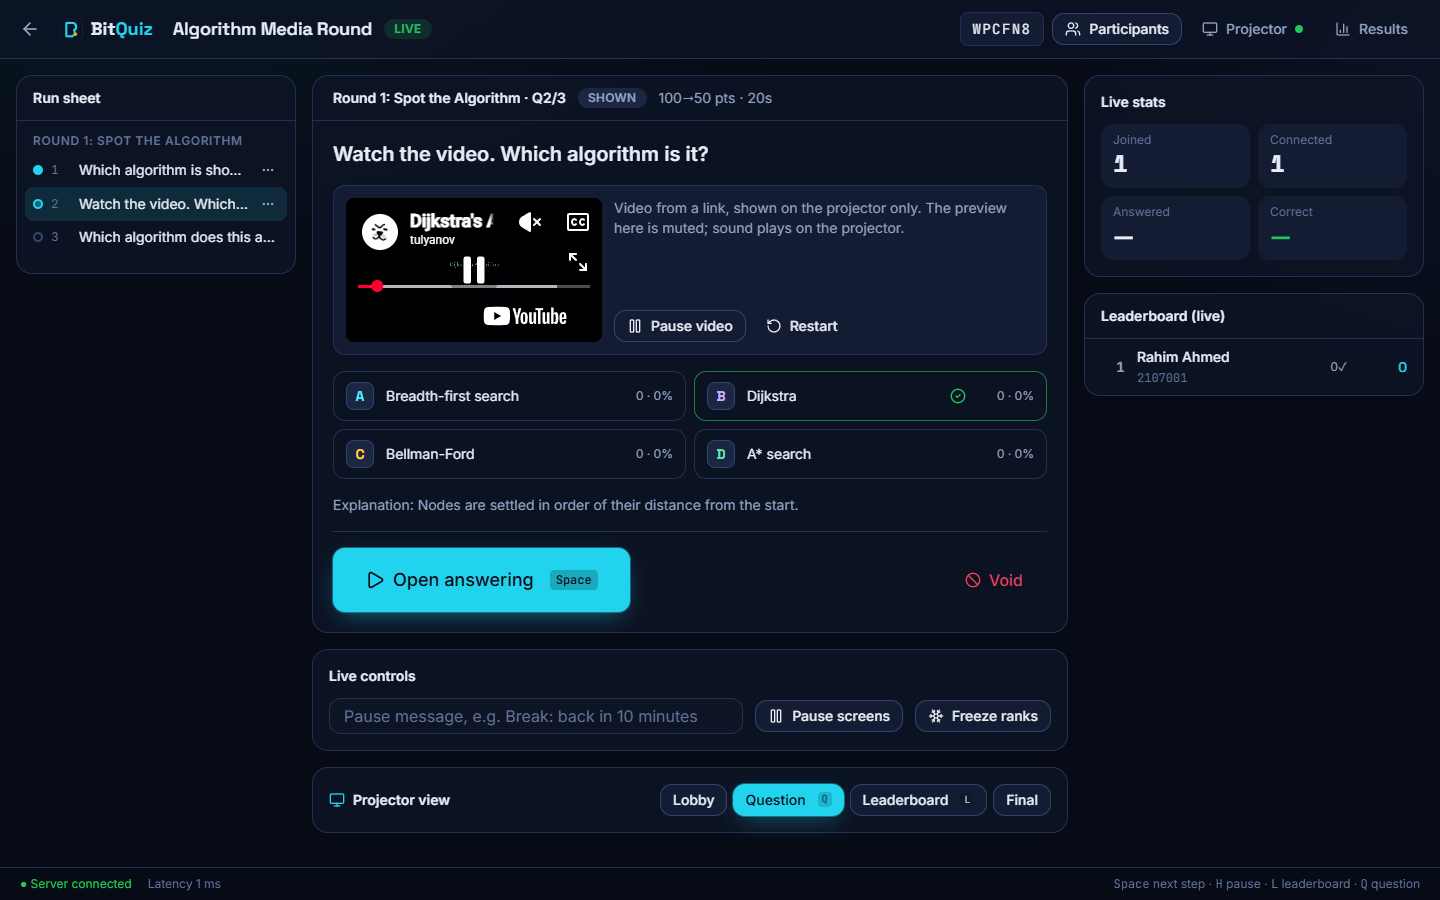
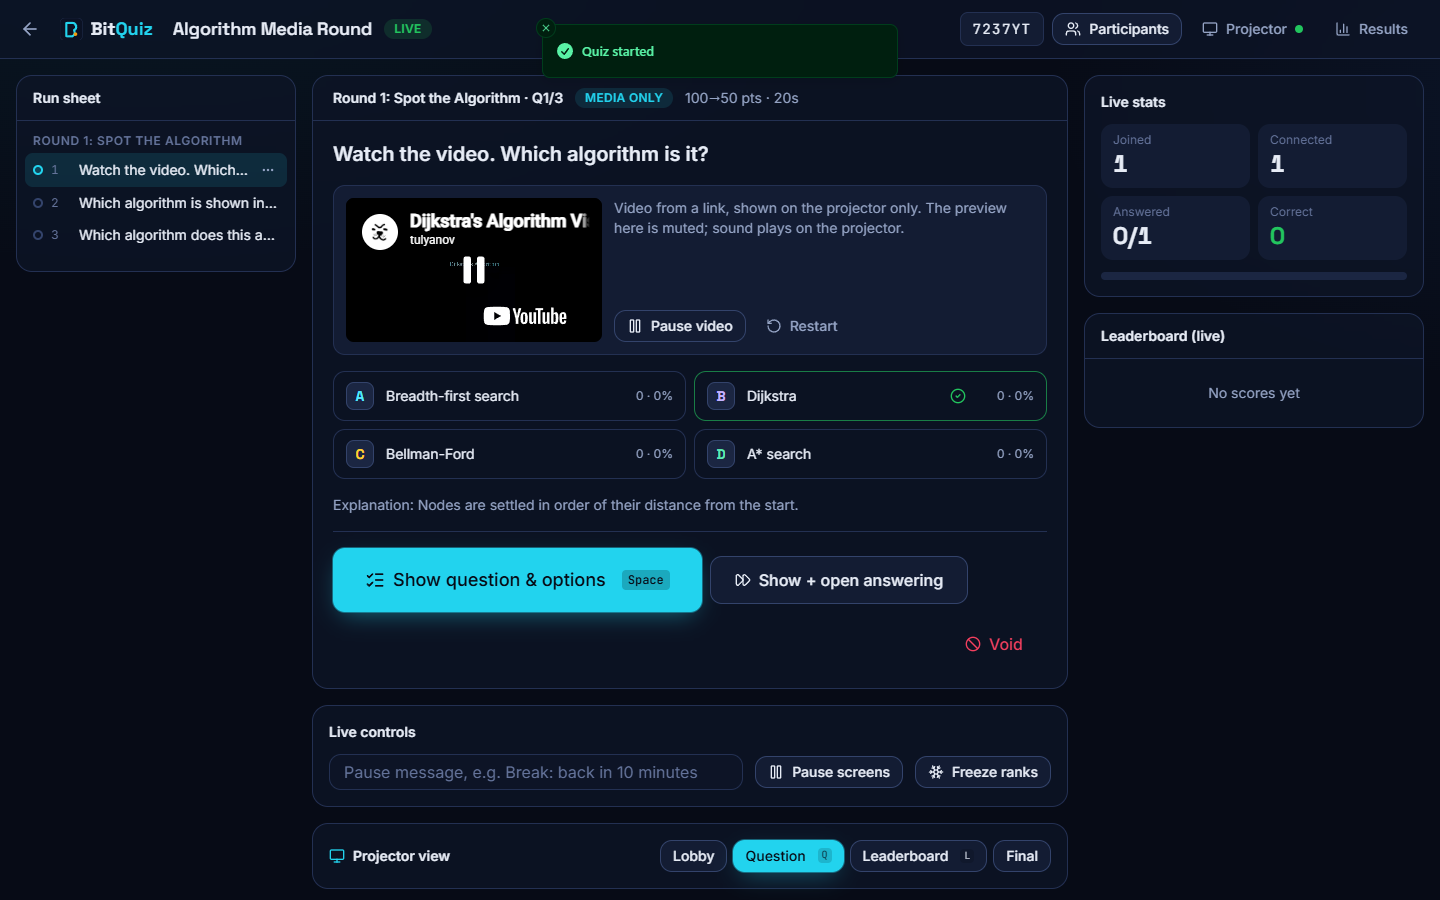
docs: two-step media flow, spoiler guidance and release 1.3.0

diff --git a/README.md b/README.md
@@ -52,11 +52,11 @@ Built for IEEE CS KUET quiz events of 100–300 participants in one hall. Tested
 
 **Images and videos** ([guide](docs/MEDIA.md))
 
-| Projector: video question                                     | Projector: image question                                |
-| ------------------------------------------------------------- | -------------------------------------------------------- |
-| ![Projector video](docs/screenshots/projector-video.png)      | ![Projector image](docs/screenshots/projector-media.png) |
-| **Console: video controls**                                   | **Editor: media with preview**                           |
-| ![Console video controls](docs/screenshots/console-video.png) | ![Editor media](docs/screenshots/editor-media.png)       |
+| Step 1: media only (phones say "Watch the screen")            | Step 2: question and options appear                           |
+| ------------------------------------------------------------- | ------------------------------------------------------------- |
+| ![Media stage](docs/screenshots/projector-media-stage.png)    | ![Question and options](docs/screenshots/projector-media.png) |
+| **Console: video controls**                                   | **Editor: media with preview**                                |
+| ![Console video controls](docs/screenshots/console-video.png) | ![Editor media](docs/screenshots/editor-media.png)            |
 
 <table>
   <tr>
@@ -93,7 +93,7 @@ Built for IEEE CS KUET quiz events of 100–300 participants in one hall. Tested
 **Organizers**
 
 - **Text and code questions** with 2–6 options (True/False included), syntax highlighting, explanations, and per-question time and points.
-- **Images and videos** from YouTube, Google Drive or any https link, or from files on the projector computer (works offline). Videos play on the projector only, start when the question is shown and are controlled from the console (play, pause, restart); the answer timer starts when you open answering. See [docs/MEDIA.md](docs/MEDIA.md).
+- **Images and videos** from YouTube, Google Drive or any https link, or from files on the projector computer (works offline). Media questions are shown in two steps: first the image or video alone (the video starts, phones say "Watch the screen", the question and options are not sent yet), then the question and options when the organizer shows them. Videos play on the projector only and are controlled from the console (play, pause, restart); the answer timer starts when you open answering. See [docs/MEDIA.md](docs/MEDIA.md).
 - **CSV import** with a row-by-row preview of problems (Excel/Google Sheets friendly), plus **results** and **all-answers** CSV exports.
 - **Projector optional.** Projector controls appear only when a projector screen is connected. Without one, the console shows the join QR code and link.
 - **Invite-only organizer accounts.** Owners invite organizers, who set their own password from a single-use link. The link can be shared directly (e.g. WhatsApp), so no email service is required. With email configured, invitations, verification and "forgot password" links are also emailed.

diff --git a/docs/MEDIA.md b/docs/MEDIA.md
@@ -43,11 +43,28 @@ Videos play inside the browser: **MP4 (H.264)** or **WebM** work everywhere. If 
 
 ## During the quiz
 
-1. **Show question:** the projector shows the media and **the video starts automatically**. Phones show the question with options locked. The answer timer has not started yet.
-2. Use **Pause video**, **Play video** and **Restart** in the console if needed. The console preview is muted; sound plays on the projector.
-3. **Open answering** when the video has finished (or while it plays): now the timer starts.
+A question with an image or video is shown in two steps, so the room watches first and reads the options afterwards:
+
+| Console button | Projector | Phones |
+| --- | --- | --- |
+| **Show next question** | The image or video alone, large; **the video starts automatically** | "Watch the screen", no question and no options |
+| **Show question & options** | The question and options appear beside the media; the video keeps playing | The question and options, locked |
+| **Open answering** | Timer runs | Participants answer |
+
+- Use **Pause video**, **Play video** and **Restart** in the console at any time. The console preview is muted; sound plays on the projector.
+- In the first step the question text and options are not sent to phones or the projector at all, so nobody can read them early.
+- **Show + open answering** skips the second step when time is short. Questions without media are shown in one step as before.
 
 Browsers block video sound until someone clicks the page. Click **Go fullscreen** on the projector before the quiz starts. If a video still doesn't start, the projector shows **Click to start the video**.
+
+## Don't give away the answer
+
+For questions like "Which algorithm is this?", anything on screen can be a hint.
+
+- **YouTube shows the video's title and channel** on the projector (at the start and when paused), and YouTube doesn't allow hiding it. Upload your own video as **Unlisted** with a neutral title such as "Round 2 Q1", or use a file on the projector computer instead. On the projector BitQuiz turns off YouTube's controls and hover overlays, but the title can still appear.
+- **Google Drive** shows the file name in its player: give the file a neutral name.
+- **Files on the projector computer** show no title at all. They're the safest choice for this kind of question. Still use neutral file names (`round2-q1.mp4`), because the names appear in the projector's "Media files" dialog.
+- The editor shows a warning when a video question uses YouTube or Drive.
 
 ## Before the event
 
@@ -55,3 +72,4 @@ Browsers block video sound until someone clicks the page. Click **Go fullscreen*
 - [ ] For projector files: `Media files` shows all files loaded (for example `3/3`).
 - [ ] Projector volume is tested in the hall.
 - [ ] YouTube videos are Unlisted (not Private) and Drive files are shared with "Anyone with the link".
+- [ ] Video titles and file names don't reveal answers.

diff --git a/CHANGELOG.md b/CHANGELOG.md
@@ -2,6 +2,18 @@
 
 All notable changes to this project are documented here. The format follows [Keep a Changelog](https://keepachangelog.com/en/1.1.0/) and the project uses [Semantic Versioning](https://semver.org/).
 
+## [1.3.0] - 2026-10-06
+
+### Added
+
+- **Media first, then the question.** Questions with an image or video now start in a media-only stage: the projector shows the media large and the video starts; phones say "Watch the screen". The question text and options are withheld from phones and the projector until the organizer clicks **Show question & options**. "Show + open answering" skips the step. The media element stays mounted between stages, so a playing video isn't reloaded.
+- The editor warns that YouTube and Google Drive display the video title, which can give away the answer, and suggests neutral titles or projector files.
+
+### Fixed
+
+- Opening answering no longer restarts the question's video from the beginning.
+- On the projector, YouTube videos controlled from the console show no player controls, keyboard shortcuts or hover overlays (fewer moments where the title appears).
+
 ## [1.2.0] - 2026-10-06
 
 ### Added
